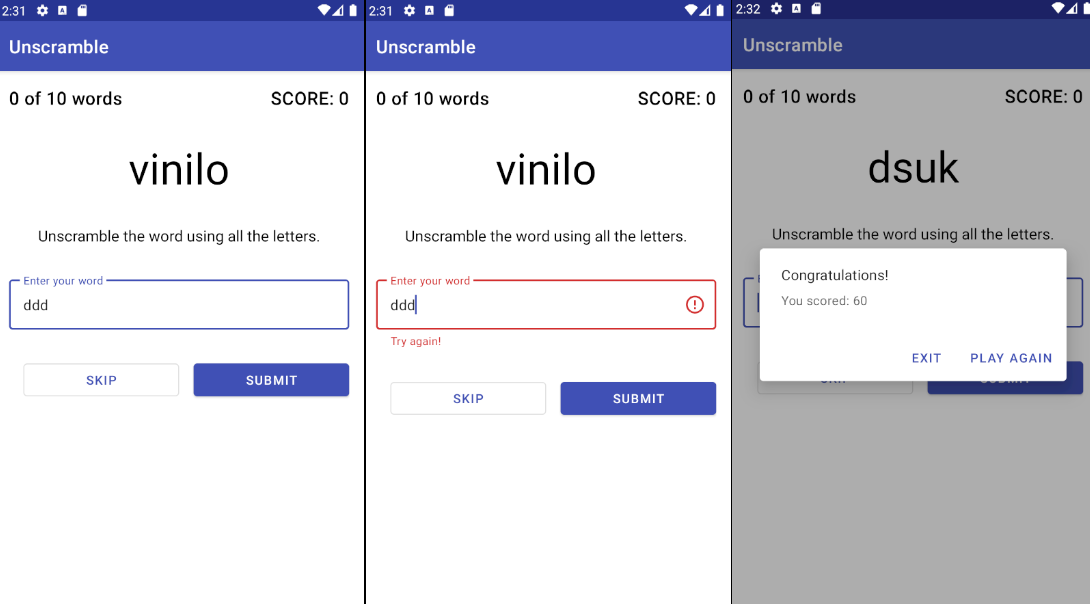
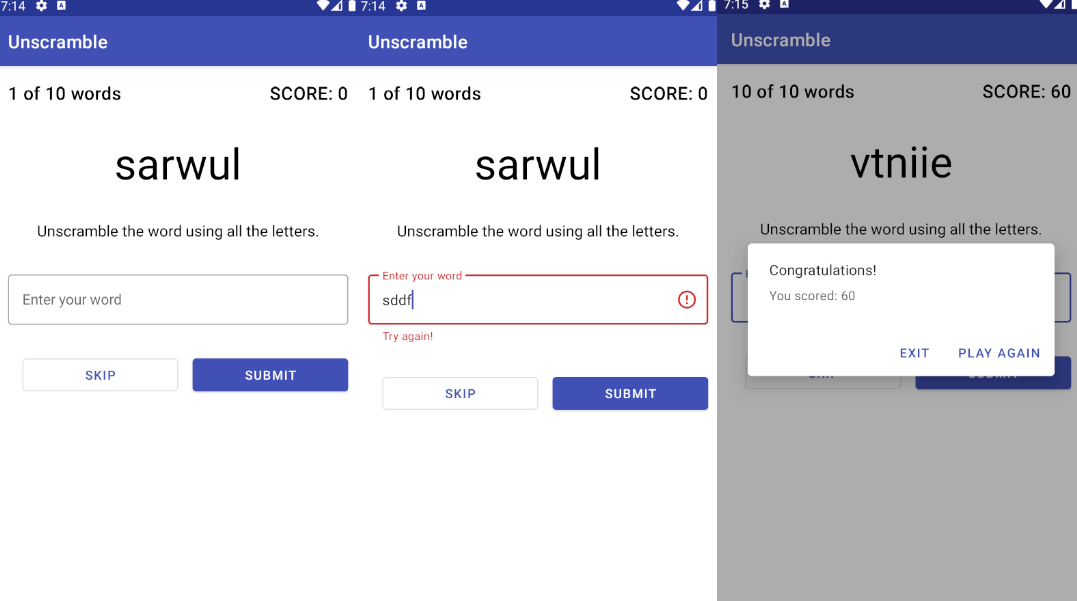
unscramble

diff --git a/Unscramble/app/src/main/java/com/example/android/unscramble/ui/game/GameFragment.kt b/Unscramble/app/src/main/java/com/example/android/unscramble/ui/game/GameFragment.kt
@@ -21,6 +21,7 @@ import android.util.Log
 import android.view.LayoutInflater
 import android.view.View
 import android.view.ViewGroup
+import androidx.databinding.DataBindingUtil
 import androidx.fragment.app.Fragment
 import androidx.fragment.app.viewModels
 import com.example.android.unscramble.R
@@ -40,7 +41,7 @@ class GameFragment : Fragment() {
             savedInstanceState: Bundle?
     ): View {
         // Inflate the layout XML file and return a binding object instance
-        binding = GameFragmentBinding.inflate(inflater, container, false)
+        binding = DataBindingUtil.inflate(inflater, R.layout.game_fragment, container, false)
         Log.d("GameFragment", "GameFragment created/re-created!")
         return binding.root
     }
@@ -52,10 +53,13 @@ class GameFragment : Fragment() {
         binding.submit.setOnClickListener { onSubmitWord() }
         binding.skip.setOnClickListener { onSkipWord() }
         // Update the UI
-        updateNextWordOnScreen()
-        binding.score.text = getString(R.string.score, 0)
-        binding.wordCount.text = getString(
-                R.string.word_count, 0, MAX_NO_OF_WORDS)
+
+        binding.gameViewModel = viewModel
+        binding.maxNoOfWords = MAX_NO_OF_WORDS
+        //레이아웃에 수명주기 전달
+        binding.lifecycleOwner = viewLifecycleOwner
+
+
     }
 
     /*
@@ -67,9 +71,7 @@ class GameFragment : Fragment() {
 
         if (viewModel.isUserWordCorrect(playerWord)) {
             setErrorTextField(false)
-            if (viewModel.nextWord()) {
-                updateNextWordOnScreen()
-            } else {
+            if (!viewModel.nextWord()) {
                 showFinalScoreDialog()
             }
         } else {
@@ -85,7 +87,7 @@ class GameFragment : Fragment() {
     private fun onSkipWord() {
         if (viewModel.nextWord()) {
             setErrorTextField(false)
-            updateNextWordOnScreen()
+
         } else {
             showFinalScoreDialog()
         }
@@ -104,7 +106,7 @@ class GameFragment : Fragment() {
     private fun restartGame() {
         viewModel.reinitializeData()
         setErrorTextField(false)
-        updateNextWordOnScreen()
+
     }
 
     /*
@@ -130,15 +132,13 @@ class GameFragment : Fragment() {
     /*
      * Displays the next scrambled word on screen.
      */
-    private fun updateNextWordOnScreen() {
-        binding.textViewUnscrambledWord.text = viewModel.currentScrambledWord
-    }
+
     //대화상자 만드는 함수를 만들어서 필요할때 적절히 호출하자.
     private fun showFinalScoreDialog() {
         //requireContext는 프래그먼트에서 context 반환할때 쓰는 함수.
         MaterialAlertDialogBuilder(requireContext())
             .setTitle(getString(R.string.congratulations))  //타이틀
-            .setMessage(getString(R.string.you_scored, viewModel.score)) //메세지
+            .setMessage(getString(R.string.you_scored, viewModel.score.value)) //메세지
             .setCancelable(false) //뒤로가기 불가
             //나가기 텍스트추가
             .setNegativeButton(getString(R.string.exit)) { _, _ ->

diff --git a/Unscramble/app/src/main/java/com/example/android/unscramble/ui/game/GameViewModel.kt b/Unscramble/app/src/main/java/com/example/android/unscramble/ui/game/GameViewModel.kt
@@ -1,20 +1,40 @@
 package com.example.android.unscramble.ui.game
 
+import android.text.Spannable
+import android.text.SpannableString
+import android.text.style.TtsSpan
 import android.util.Log
+import androidx.lifecycle.LiveData
+import androidx.lifecycle.MutableLiveData
+import androidx.lifecycle.Transformations
 import androidx.lifecycle.ViewModel
 
 class GameViewModel : ViewModel(){
-    private var _score = 0
-    val score: Int
+    private val _score = MutableLiveData(0)
+    val score: LiveData<Int>
         get() = _score
 
-    private var _currentWordCount = 0
-    val currentWordCount: Int
+    private val _currentWordCount = MutableLiveData(0)
+    val currentWordCount: LiveData<Int>
         get() = _currentWordCount
-    private lateinit var _currentScrambledWord: String
 
-    val currentScrambledWord: String
-        get() = _currentScrambledWord
+    private val _currentScrambledWord = MutableLiveData<String>()
+    //음성 안내시 한 단어씩 읽도록..
+    val currentScrambledWord: LiveData<Spannable> = Transformations.map(_currentScrambledWord) {
+        if (it == null) {
+            SpannableString("")
+        } else {
+            val scrambledWord = it.toString()
+            val spannable: Spannable = SpannableString(scrambledWord)
+            spannable.setSpan(
+                TtsSpan.VerbatimBuilder(scrambledWord).build(),
+                0,
+                scrambledWord.length,
+                Spannable.SPAN_INCLUSIVE_INCLUSIVE
+            )
+            spannable
+        }
+    }
 
     private var wordsList: MutableList<String> = mutableListOf()
     //나중에 초기화하고 싶을때 lateinit 키워드 사용
@@ -29,21 +49,22 @@ class GameViewModel : ViewModel(){
         if (wordsList.contains(currentWord)) {
             getNextWord()
         } else {
-            _currentScrambledWord = String(tempWord)
-            ++_currentWordCount
+            _currentScrambledWord.value = String(tempWord)
+            _currentWordCount.value = (_currentWordCount.value)?.inc()
             wordsList.add(currentWord)
         }
     }
 
     fun nextWord(): Boolean {
-        return if (currentWordCount < MAX_NO_OF_WORDS) {
+        return if (_currentWordCount.value!! < MAX_NO_OF_WORDS) {
             getNextWord()
             true
         } else false
     }
     private fun increaseScore() {
-        _score += SCORE_INCREASE
+        _score.value = (_score.value)?.plus(SCORE_INCREASE)
     }
+
     fun isUserWordCorrect(playerWord: String): Boolean {
         if (playerWord.equals(currentWord, true)) {
             increaseScore()
@@ -52,8 +73,8 @@ class GameViewModel : ViewModel(){
         return false
     }
     fun reinitializeData() {
-        _score = 0
-        _currentWordCount = 0
+        _score.value = 0
+        _currentWordCount.value = 0
         wordsList.clear()
         getNextWord()
     }
